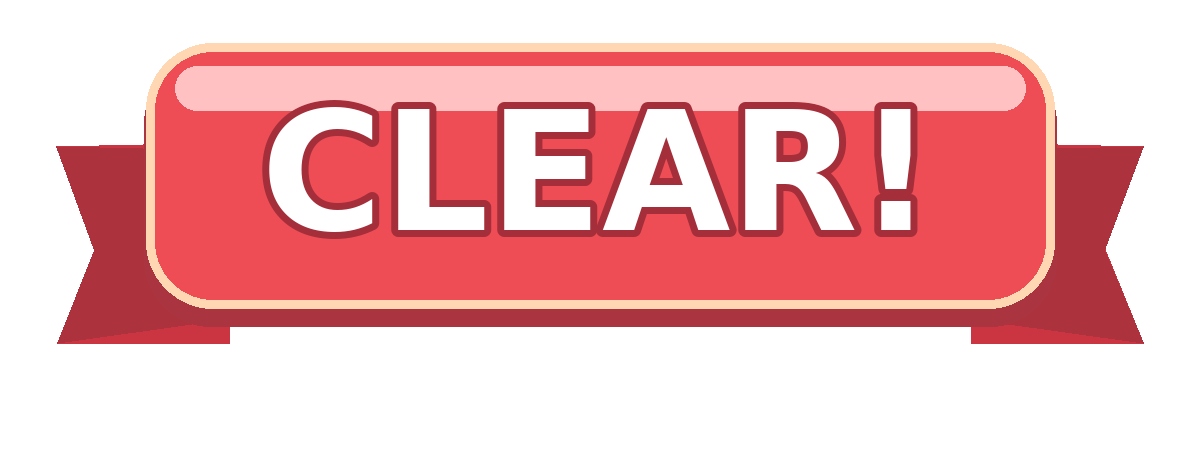
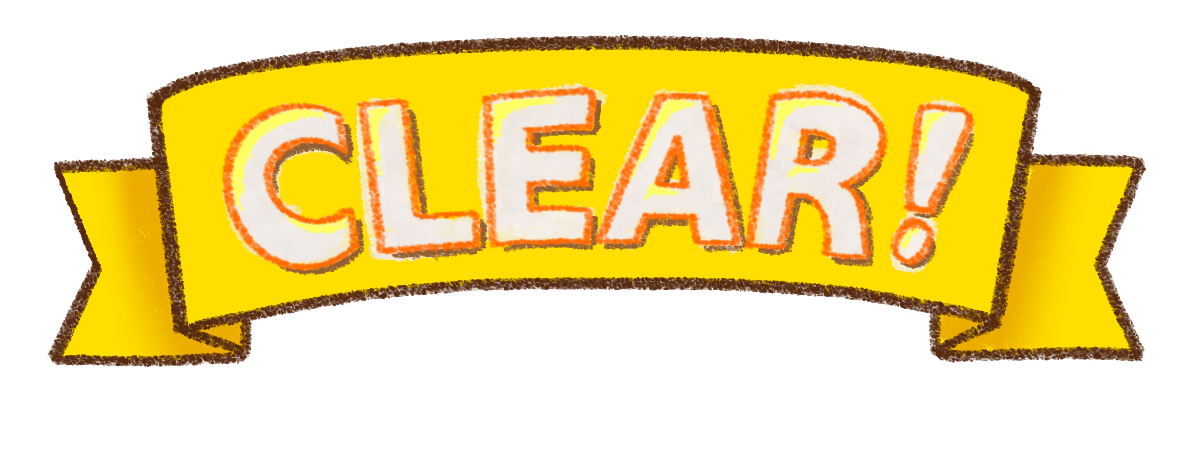
Commit v0.5.6

diff --git a/index.html b/index.html
@@ -7,7 +7,7 @@
 <meta name="apple-mobile-web-app-capable" content="yes">
 <meta name="apple-mobile-web-app-status-bar-style" content="black-translucent">
 <meta name="apple-mobile-web-app-title" content="SUM SHIFT">
-<title>SUM SHIFT | Ver.0.5.5</title>
+<title>SUM SHIFT | Ver.0.5.6</title>
 <style>
 :root{color-scheme:dark;--bg:#0e1422;--card:#182235;--tile:#25334b;--ink:#f3f7ff;--muted:#a8b9d3;--blue:#42c5ff;--green:#64e0b0;--pink:#c2a1ff}
 *{box-sizing:border-box}
@@ -354,11 +354,21 @@ body { color:var(--p-brown); }
 @media(max-height:750px){.hintchan-launch-talk{min-height:48px;}#piyokoLaunchMessage{font-size:.69rem;}.clear-ribbon-image{max-height:19dvh;}}
 @media(max-height:660px){.hintchan-launch-talk{min-height:42px;}#piyokoLaunchMessage{font-size:.64rem;}}
 
+
+/* Ver.0.5.6: flat, high-contrast tiles without depth or gradient shading. */
+#levelBoard .tile[data-value="0"]{background:#FFF5D8;border-color:#ddcaa0;box-shadow:none;text-shadow:none;}
+#levelBoard .tile[data-value="1"]{background:#DDF2FF;border-color:#80c5e8;box-shadow:none;text-shadow:none;}
+#levelBoard .tile[data-value="2"]{background:#FBE2EE;border-color:#e6a0bf;box-shadow:none;text-shadow:none;}
+#levelBoard .tile.target{box-shadow:none;outline:2px solid #40ace6;outline-offset:-2px;}
+/* Keep CLEAR front and center while retaining its stars and next-stage control. */
+.stage-clear-tap .clear-ribbon-image{width:min(89vw,420px);max-height:min(31dvh,210px);margin:0 auto 12px;}
+.stage-clear-tap{justify-content:center;gap:12px;}
+
 </style>
 </head>
 <body>
 <main class="app">
-  <header class="top"><div><div class="brand">SUM SHIFT</div><div class="subtitle">Ver.0.5.5</div></div><div id="statePill" class="pill">TUTORIAL</div></header>
+  <header class="top"><div><div class="brand">SUM SHIFT</div><div class="subtitle">Ver.0.5.6</div></div><div id="statePill" class="pill">TUTORIAL</div></header>
   <div class="nav-top"><button id="toStages" class="menu-btn" type="button">⌂ ステージ選択</button></div>
   <div id="tutorialView" class="view">
   <div class="tutorial-mascot"><img src="images/piyoko_cheer.png" alt="案内するPiyoko"></div><div id="progress" class="progress" aria-label="チュートリアル進捗"></div>
@@ -391,7 +401,7 @@ body { color:var(--p-brown); }
   </section>
   <section id="stagePlayView" class="view hidden">
     <button id="hintchanLaunch" class="hintchan-launch" type="button" aria-label="Piyokoに相談する"><img src="images/piyoko_guide.png" alt="" class="hintchan-launch-img"><span class="hintchan-launch-talk"><span id="piyokoLaunchMessage">「−1」と「＋1」を使い分けて<br>すべて0にしよう！</span></span></button>
-    <div class="play-heading"><h1 id="levelTitle">STAGE 01</h1><p id="levelDescription">全部0にしよう！</p><div class="play-meta"><span id="levelMoves">操作：0手</span><span id="levelMinimum">最短：1手</span><span id="levelStarsPreview" class="level-stars-preview" aria-label="このステージのベストスター">☆☆☆</span></div></div>
+    <div class="play-heading"><h1 id="levelTitle">STAGE 01</h1><div class="play-meta"><span id="levelMoves">操作：0手</span><span id="levelMinimum">最短：1手</span><span id="levelStarsPreview" class="level-stars-preview" aria-label="このステージのベストスター">☆☆☆</span></div></div>
     <div class="game"><div id="levelBoard" class="board" aria-label="ステージ盤面"></div><div id="levelOverlay" class="overlay" aria-live="polite"></div></div>
     <div id="levelMode" class="controls"><button id="levelMinus" class="btn selected" type="button">−1 操作</button><button id="levelPlus" class="btn" type="button">+1 操作</button></div>
     <div id="levelWin" class="win-card hidden" aria-live="polite"><h2>STAGE CLEAR!</h2><div id="levelStars" class="win-stars"></div><p id="levelScore"></p><div class="game-actions"><button id="levelNext" class="btn primary">次のステージ →</button><button id="levelSelect" class="btn secondary">一覧へ戻る</button></div></div>
@@ -882,7 +892,6 @@ function isLevelClear(){return levelBoard.every(n=>n===0)}
 function renderLevel(){
   const stage=STAGES[selectedLevel];
   $('levelTitle').textContent=`STAGE ${String(selectedLevel+1).padStart(2,'0')}`;
-  $('levelDescription').innerHTML=selectedLevel===0?'最初は1手！すべて0にしよう。':selectedLevel===3?'打ち消し合いを体験！ ＋1と−1で2手クリアを目指そう。':selectedLevel===STAGES.length-1?'最後の難問に挑戦！最短手数を目指そう。':'「−1」と「＋1」を使い分けて、<br>すべて0にしよう！';
   $('levelMoves').textContent=`操作：${levelMovesCount}手`;
   $('levelMinimum').textContent=`最短：${stage.min}手`;
   $('levelStarsPreview').textContent='★'.repeat(progressData.stars[selectedLevel])+'☆'.repeat(3-progressData.stars[selectedLevel]);
@@ -905,7 +914,7 @@ function renderLevel(){
   clearTap.classList.toggle('hidden',!cleared||levelAnimating);
   if(cleared&&!levelAnimating){
     const stars=scoreStars(levelMovesCount,stage.min);
-    clearTap.innerHTML=`<img class="clear-ribbon-image" src="images/clear_ribbon.png" alt="CLEAR!"><img class="clear-piyoko" src="images/piyoko_clear.png" alt="喜ぶPiyoko"><div class="tap-stars">${'★'.repeat(stars)+'☆'.repeat(3-stars)}</div><p class="clear-caption">STAGE ${String(selectedLevel+1).padStart(2,"0")} クリア！<small>${levelMovesCount}手でクリア・最短${stage.min}手</small></p><div class="tap-next">${selectedLevel<STAGES.length-1?'画面をタップして次のステージへ ↓':'画面をタップしてステージ一覧へ ↓'}</div>`;
+    clearTap.innerHTML=`<img class="clear-ribbon-image" src="images/clear_ribbon.png" alt="CLEAR!"><div class="tap-stars">${'★'.repeat(stars)+'☆'.repeat(3-stars)}</div><p class="clear-caption">STAGE ${String(selectedLevel+1).padStart(2,"0")} クリア！<small>${levelMovesCount}手でクリア・最短${stage.min}手</small></p><div class="tap-next">${selectedLevel<STAGES.length-1?'画面をタップして次のステージへ ↓':'画面をタップしてステージ一覧へ ↓'}</div>`;
   }
   if(cleared&&!levelAnimating){
     const stars=scoreStars(levelMovesCount,stage.min);
@@ -920,17 +929,17 @@ function tapLevel(index){
   levelBoard=updateBoard(levelBoard,index,levelDirection);levelMovesCount++;
   const clear=isLevelClear();
   if(clear){
-    levelAnimating=true;
     const score=scoreStars(levelMovesCount,STAGES[selectedLevel].min);
     const before=achievementCounts();
     progressData.stars[selectedLevel]=Math.max(progressData.stars[selectedLevel],score);storeProgress();
     queueNewAchievements(before,achievementCounts());
   }
   renderLevel();
-  $('levelBoard').querySelectorAll('.tile').forEach((b,i)=>{if(crossing(i,index)){b.classList.add('affected')}});
   if(clear){
-    $('levelOverlay').innerHTML='<img class="level-overlay-ribbon" src="images/clear_ribbon.png" alt="CLEAR!">';
-    levelTimer=setTimeout(()=>{levelAnimating=false;levelTimer=null;$('levelOverlay').replaceChildren();if(page==='play'){renderLevel();showPendingAchievements();}},1400);
+    // Skip the short ribbon-only flash; go directly to the normal CLEAR screen.
+    showPendingAchievements();
+  }else{
+    $('levelBoard').querySelectorAll('.tile').forEach((b,i)=>{if(crossing(i,index)){b.classList.add('affected')}});
   }
 }
 $('toStages').addEventListener('click',()=>navigate('select'));
@@ -1038,7 +1047,7 @@ function hintchanNextAdvice(step,b){
   if(gain>0)outcome=`その操作では0のマスが${beforeZeros}個から${afterZeros}個に増えるよ。`;
   else if(gain===0)outcome=`その操作では0のマスの数は${beforeZeros}個のままだよ。数字の並び方が変わることに注目して。`;
   else outcome=`その操作では0のマスが${beforeZeros}個から${afterZeros}個に減るけれど、残り最短手数はちゃんと1手減るよ。`;
-  return `【ヒント③｜実際の変化を想像】\n最短につながる一例では、${row}のどこかに「${dir}」を使うよ。${outcome}\n正解マスはまだ秘密。十字の変化を比べてみよう！`;
+  return `【ヒント③｜実際の変化を想像】\n最短につながる一例では、${row}のどこかに「${dir}」を使うよ。${outcome}\n${remaining===1?'ゴールは目前だ！キミの思いのまま進んでみよう！':'正解マスはまだ秘密。十字の変化を比べてみよう！'}`;
 }
 function setPiyokoFace(name){const img=$("hintchanPortrait");if(img)img.src=`images/piyoko_${name}.png`;}
 function hideHintchan(){
@@ -1146,7 +1155,7 @@ function applyHintsFromCSV(csvText){
 
 render();
 
-/* v0.5.2: Piyoko speech rotates every 30 seconds of active gameplay. */
+/* v0.5.2: Piyoko speech rotates every 20 seconds of active gameplay. */
 const PIYOKO_MESSAGES=[
   '「−1」と「＋1」を使い分けて<br>すべて0にしよう！',
   'ヒントが欲しい場合は<br>ボクをタッチしてね！'
@@ -1155,7 +1164,7 @@ let piyokoSpeechSeconds=0;
 let piyokoSpeechTick=null;
 function updatePiyokoLaunchSpeech(){
   const el=$('piyokoLaunchMessage');
-  if(el)el.innerHTML=PIYOKO_MESSAGES[Math.floor(piyokoSpeechSeconds/30)%2];
+  if(el)el.innerHTML=PIYOKO_MESSAGES[Math.floor(piyokoSpeechSeconds/20)%2];
 }
 function resetPiyokoLaunchSpeech(){piyokoSpeechSeconds=0;updatePiyokoLaunchSpeech();}
 function startPiyokoSpeechClock(){
@@ -1164,7 +1173,7 @@ function startPiyokoSpeechClock(){
     if(page!=='play'||document.hidden||!$('hintchanShade').classList.contains('hidden')||
        !$('achievementShade').classList.contains('hidden')||!$('stageClearTap').classList.contains('hidden')||levelAnimating)return;
     piyokoSpeechSeconds++;
-    if(piyokoSpeechSeconds%30===0)updatePiyokoLaunchSpeech();
+    if(piyokoSpeechSeconds%20===0)updatePiyokoLaunchSpeech();
   },1000);
 }
 startPiyokoSpeechClock();
